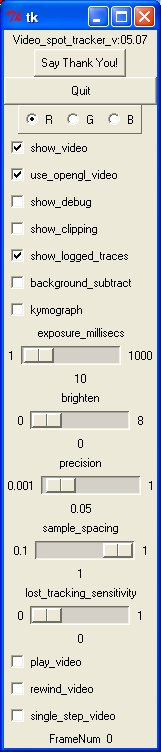
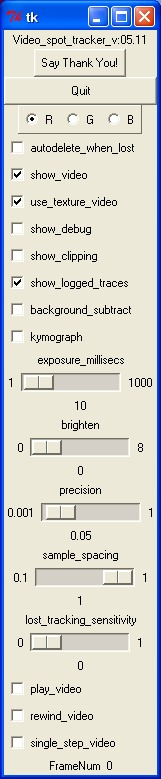
2007-07-16  Russell M. Taylor II  <taylorr@cs.unc.edu>
* video_spot_tracker.cpp : Version 5.11 has a button that lets
		you cause lost spots to be autodeleted.  Had to redo the
		"lost" code to be thread-safe.  Added a "pop" sound when
		deleting beads.

diff --git a/video_spot_tracker/video_spot_tracker.html b/video_spot_tracker/video_spot_tracker.html
@@ -1,6 +1,6 @@
-<title>Video Spot Tracker v05.10</title>
+<title>Video Spot Tracker v05.11</title>
 
-<h1>Video Spot Tracker version 05.10</h1>
+<h1>Video Spot Tracker version 05.11</h1>
 
 <p>The <i><b>Video Spot Tracker</b></i> program is used to track the motion of 
   one or more spots in a <a href="http://www.microsoft.com/directx">Microsoft 
@@ -50,13 +50,13 @@
   icon that was created when the program was installed. To select a stack of image 
   files that are numbered consecutively, drag any one of the files onto the icon. 
   It can also be run by selecting one of the camera-specific shortcuts from <i><b>Start 
-  Menu/All Programs/NSRG/Video Spot Tracker v05.10</b></i>. If you run the program 
+  Menu/All Programs/NSRG/Video Spot Tracker v05.11</b></i>. If you run the program 
   directly by double-clicking on the icon, it will ask for a video or image file 
   (AVI, TIF, or BMP) that it should open.</p>
 
 <p><b><i>NOTE:</i></b> With Windows XP service pack 2 and with other firewall software, running the program causes a dialog box to appear asking whether to block the program; the program needs to be unblocked only if the program is to be connected to a local or remote feedback system that relies on the tracking data. This happens when the program opens the Internet port assigned to it (3883) by the Internet Domain Naming Authority to export the data through the standard VRPN protocol (<a href="http://www.vrpn.org">www.vrpn.org</a>).</p> 
 
-<h2><img src="GUI.jpg" width="161" height="752" align="right">Using the program</h2>
+<h2><img src="GUI.jpg" width="161" height="779" align="right">Using the program</h2>
 
 <p>When the program is run and a file is selected, four windows will appear. The image window that appears on the lower right contains the first image within the video file or a continually-updating image from a live camera feed. The control panel named <b><i>tk</i></b> that appears on the left when the program is run (shown here to the right) contains a number of interaction widgets that control the operation of the program. The <b><i>kernel</i></b> control panel that appears above the image window (described later) controls the type of tracking kernel being used. The <b><i>log</i></b> control panel is described later.</p>
 
@@ -181,6 +181,12 @@
   is met, the program may skip ahead a frame or two in video formats such as AVI 
   whose player provides buffered playout. It will then pause. Pressing &quot;Play&quot; 
   at this point will resume activity through the file.</p>
+<p>If the &quot;autodelete_when_lost&quot; check-box is checked, then any tracker 
+  that becomes lost will be automatically deleted. This is useful if you are tracking 
+  spots that go out of the window or when you have lots of beads and are looking 
+  for statistics because you can set the program running with a lot of beads tracking 
+  and then come back later without worrying about the program stopping or beads 
+  wandering around lost.</p>
 <p></p>
 <h3>Faster display update</h3>
 
@@ -278,6 +284,13 @@
 
 <h2>Version Information</h2>
 
+<h3>Version 5.11:</h3>
+<ul>
+  <li>Added &quot;autodelete when lost&quot; checkbox that will delete a tracker 
+    when it exceeds the lost-tracking sensitivity level. This lets people put 
+    a lot of trackers going and then not have to stop every time one gets lost.</li>
+</ul>
+<h3></h3>
 <h3>Version 5.10:</h3>
 <ul>
   <li>Added support for multi-layer TIFF files. The previous versions would only 

diff --git a/video_spot_tracker.cpp b/video_spot_tracker.cpp
@@ -86,7 +86,7 @@ const double M_PI = 2*asin(1.0);
 
 //--------------------------------------------------------------------------
 // Version string for this program
-const char *Version_string = "05.10";
+const char *Version_string = "05.11";
 
 //--------------------------------------------------------------------------
 // Global constants
@@ -106,6 +106,7 @@ public:
     d_tracker_Z = ztracker;
     d_index = d_static_index++;
     d_velocity[0] = d_acceleration[0] = d_velocity[1] = d_acceleration[1] = 0;
+    d_lost = false;
   }
 
   spot_tracker_XY *xytracker(void) const { return d_tracker_XY; }
@@ -120,12 +121,16 @@ public:
   void get_acceleration(double acceleration[2]) const { acceleration[0] = d_acceleration[0]; acceleration[1] = d_acceleration[1]; }
   void set_acceleration(const double acceleration[2]) { d_acceleration[0] = acceleration[0]; d_acceleration[1] = acceleration[1]; }
 
+  bool lost(void) const { return d_lost; };
+  void lost(bool l) { d_lost = l; };
+
 protected:
   spot_tracker_XY	*d_tracker_XY;	    //< The tracker we're keeping information for in XY
   spot_tracker_Z	*d_tracker_Z;	    //< The tracker we're keeping information for in Z
   unsigned		d_index;	    //< The index for this instance
   double		d_velocity[2];	    //< The velocity of the particle
   double		d_acceleration[2];  //< The acceleration of the particle
+  bool                  d_lost;             //< Am I lost?
   static unsigned	d_static_index;     //< The index to use for the next one (never to be re-used).
 };
 unsigned  Spot_Information::d_static_index = 0;	  //< Start the first instance of a Spot_Information index at zero.
@@ -341,6 +346,7 @@ Tclvar_float_with_scale	g_brighten("brighten", "", 0, 8, 0);
 Tclvar_float_with_scale g_precision("precision", "", 0.001, 1.0, 0.05, rebuild_trackers);
 Tclvar_float_with_scale g_sampleSpacing("sample_spacing", "", 0.1, 1.0, 1.0, rebuild_trackers);
 Tclvar_float_with_scale g_lossSensitivity("lost_tracking_sensitivity", "", 0.0, 1.0, 0.0);
+Tclvar_int_with_button	g_autoDeleteLost("autodelete_when_lost","",0);
 Tclvar_int_with_button	g_invert("dark_spot",NULL,0, rebuild_trackers);
 Tclvar_int_with_button	g_interpolate("interpolate",NULL,1, rebuild_trackers);
 Tclvar_int_with_button	g_parabolafit("parabolafit",NULL,0);
@@ -1503,6 +1509,52 @@ void mykymographDisplayFunc(void)
   glutSwapBuffers();
 }
 
+bool  delete_active_xytracker(void)
+{
+  if (!g_active_tracker) {
+    return false;
+  } else {
+    // Delete the entry in the list that corresponds to the active tracker.
+    list <Spot_Information *>::iterator loop;
+    list <Spot_Information *>::iterator next;
+    for (loop = g_trackers.begin(); loop != g_trackers.end(); loop++) {
+      if (*loop == g_active_tracker) {
+	next = loop; next++;
+	delete g_active_tracker->xytracker();
+	if ( g_active_tracker->ztracker() ) {
+	  delete g_active_tracker->ztracker();
+	}
+	delete *loop;
+	g_trackers.erase(loop);
+	break;
+      }
+    }
+
+    // Set the active tracker to the next one in the list if there is
+    // a next one.  Otherwise, try to set it to the first one on the list,
+    // if there is one.  Otherwise, set it to NULL.
+    if (next != g_trackers.end()) {
+      g_active_tracker = *next;
+    } else {
+      if (g_trackers.size() > 0) {
+	g_active_tracker = *g_trackers.begin();
+      } else {
+	g_active_tracker = NULL;
+      }
+    }
+
+    // Play the "deleted tracker" sound.
+#ifdef	_WIN32
+    if (!PlaySound("deleted_tracker.wav", NULL, SND_FILENAME | SND_ASYNC)) {
+      fprintf(stderr,"Cannot play sound %s\n", "deleted_tracker.wav");
+    }
+#endif
+
+    return true;
+  }
+}
+
+
 // Optimize to find the best fit starting from last position for a tracker.
 // Invert the Y values on the way in and out.
 // Don't let it adjust the radius here (otherwise it gets too jumpy).
@@ -1679,22 +1731,19 @@ static void optimize_tracker(Spot_Information *tracker)
       // causing trouble.
       double scale_factor = 1 + 9*g_lossSensitivity;
       if (starting_value * scale_factor < min_val) {
-        g_tracker_is_lost = true;
-        g_active_tracker = tracker;
+        tracker->lost(true);
       }
     } else if (g_kernel_type == KERNEL_CONE) {
       // Differences (not factors) of 0-5 seem more appropriate for a quick test of the cone kernel.
       double difference = 5*g_lossSensitivity;
       if (starting_value - min_val < difference) {
-        g_tracker_is_lost = true;
-        g_active_tracker = tracker;
+        tracker->lost(true);
       }
     } else {  // Must be a disk kernel
       // Differences (not factors) of 0-5 seem more appropriate for a quick test of the disk kernel.
       double difference = 5*g_lossSensitivity;
       if (starting_value - min_val < difference) {
-        g_tracker_is_lost = true;
-        g_active_tracker = tracker;
+        tracker->lost(true);
       }
     }
   }
@@ -2075,6 +2124,34 @@ void myIdleFunc(void)
       g_ready_tracker_semaphore->v();
     }
 
+    // Now that we are back in a single thread, run through the list of trackers
+    // and see if any of them are lost.  If so, what happens depends on whether
+    // the auto-deletion of lost trackers is enabled.  If so, then delete each
+    // lost tracker.  If not, then point at one of the lost trackers and
+    // set the global lost-tracker flag;
+
+    // If this tracker is lost, and we have the "autodelete lost tracker" feature
+    // turned on, then delete this tracker and say that we are no longer lost.
+    for (loop = g_trackers.begin(); loop != g_trackers.end(); loop++) {
+      if ((*loop)->lost()) {
+        // Set me to be the active tracker.
+        g_active_tracker = *loop;
+        if (g_autoDeleteLost) {
+          // Delete this tracker from the list (it was made active above)
+          delete_active_xytracker();
+
+          // Set the loop back to the beginning of the list of trackers
+          loop = g_trackers.begin();
+
+        } else {
+          // Make me the active tracker and set the global "lost tracker"
+          // flag.
+          g_tracker_is_lost = true;
+        }
+      }
+    }
+
+
     if (g_tracker_is_lost) {
       // If we have a playable video and the video is not paused, then say we're lost and pause it.
       if (g_play != NULL) {
@@ -2269,44 +2346,6 @@ void myIdleFunc(void)
 #else
   vrpn_SleepMsecs(1);
 #endif
-}
-
-bool  delete_active_xytracker(void)
-{
-  if (!g_active_tracker) {
-    return false;
-  } else {
-    // Delete the entry in the list that corresponds to the active tracker.
-    list <Spot_Information *>::iterator loop;
-    list <Spot_Information *>::iterator next;
-    for (loop = g_trackers.begin(); loop != g_trackers.end(); loop++) {
-      if (*loop == g_active_tracker) {
-	next = loop; next++;
-	delete g_active_tracker->xytracker();
-	if ( g_active_tracker->ztracker() ) {
-	  delete g_active_tracker->ztracker();
-	}
-	delete *loop;
-	g_trackers.erase(loop);
-	break;
-      }
-    }
-
-    // Set the active tracker to the next one in the list if there is
-    // a next one.  Otherwise, try to set it to the first one on the list,
-    // if there is one.  Otherwise, set it to NULL.
-    if (next != g_trackers.end()) {
-      g_active_tracker = *next;
-    } else {
-      if (g_trackers.size() > 0) {
-	g_active_tracker = *g_trackers.begin();
-      } else {
-	g_active_tracker = NULL;
-      }
-    }
-
-    return true;
-  }
 }
 
 // This routine finds the tracker whose coordinates are
